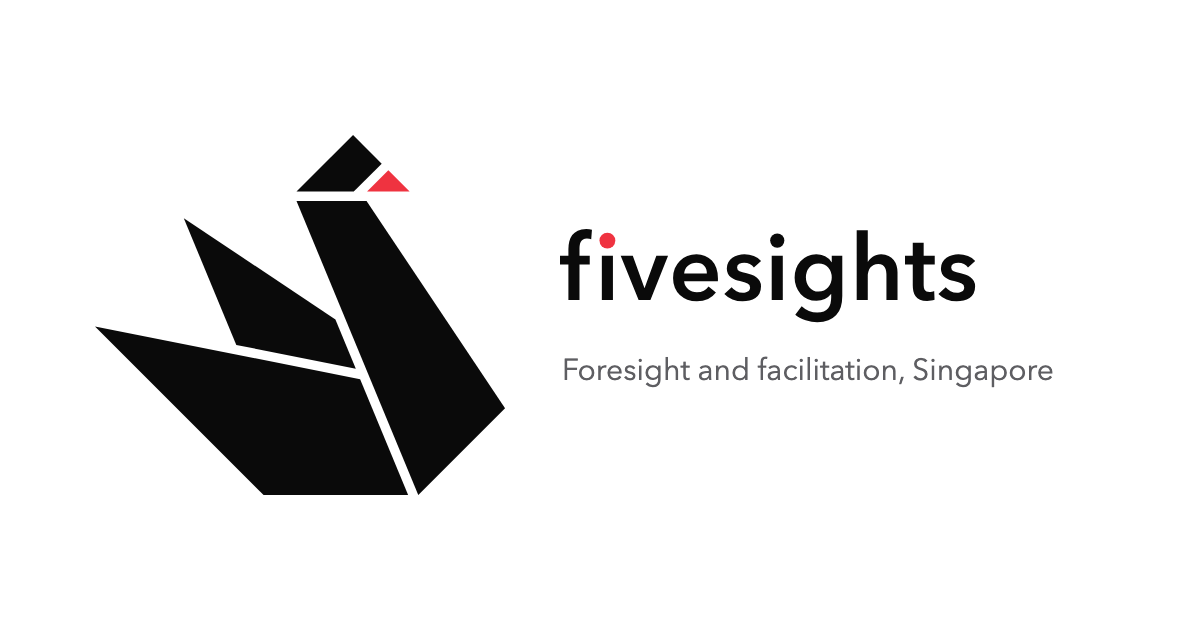
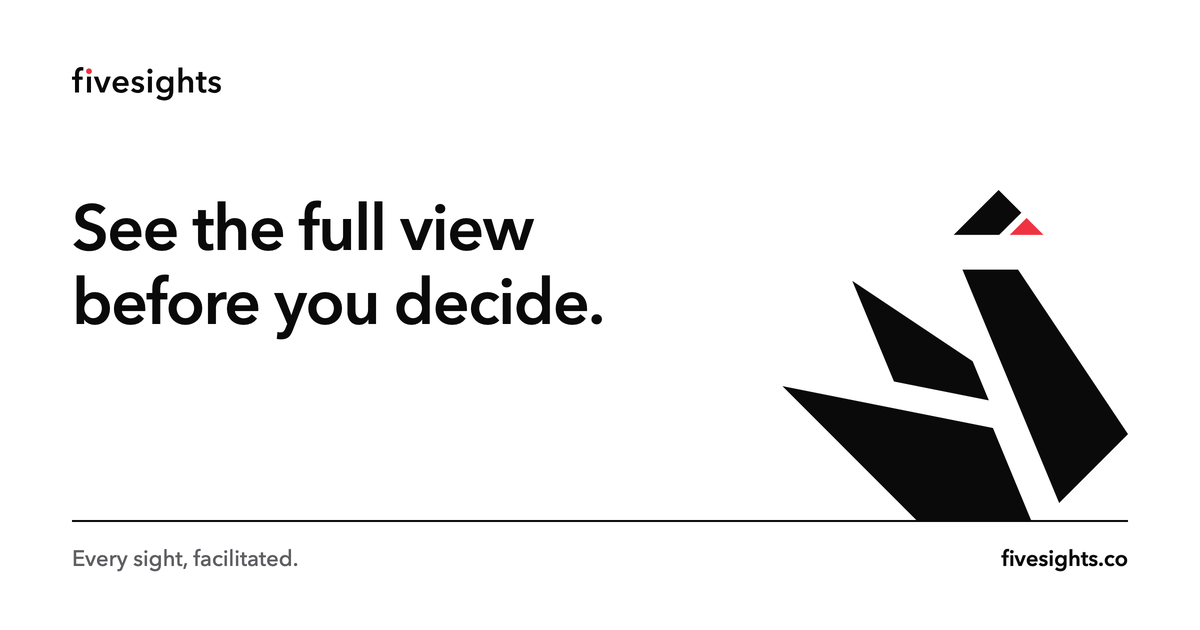
Retire 'Foresight and facilitation' for 'Every sight, facilitated.'
Page title, link-preview descriptions and the link-preview image.

diff --git a/index.html b/index.html
@@ -3,7 +3,7 @@
 <head>
 <meta charset="utf-8">
 <meta name="viewport" content="width=device-width, initial-scale=1">
-<title>fivesights | Foresight and facilitation, Singapore</title>
+<title>fivesights | Every sight, facilitated.</title>
 <meta name="description" content="fivesights is a Singapore foresight and facilitation practice that trains teams to see a decision from every side before they make it.">
 <link rel="icon" type="image/svg+xml" href="brand/favicon.svg">
 <link rel="canonical" href="https://fivesights.co/">
@@ -12,7 +12,7 @@
 <meta name="twitter:card" content="summary_large_image">
 <link rel="stylesheet" href="css/app.css">
 <meta property="og:title" content="fivesights">
-<meta property="og:description" content="Foresight and facilitation, Singapore.">
+<meta property="og:description" content="Every sight, facilitated.">
 <meta property="og:type" content="website">
 </head>
 <body>

diff --git a/approach.html b/approach.html
@@ -7,7 +7,7 @@
 <meta name="description" content="How fivesights works: five positions a team looks from before it decides, with Values at the centre, and the framework library that sits under each.">
 <link rel="icon" type="image/svg+xml" href="brand/favicon.svg">
 <meta property="og:title" content="Our approach | fivesights">
-<meta property="og:description" content="Foresight and facilitation, Singapore.">
+<meta property="og:description" content="Every sight, facilitated.">
 <meta property="og:type" content="website">
 <link rel="canonical" href="https://fivesights.co/approach.html">
 <meta property="og:url" content="https://fivesights.co/approach.html">

diff --git a/work.html b/work.html
@@ -12,7 +12,7 @@
 <meta name="twitter:card" content="summary_large_image">
 <link rel="stylesheet" href="css/app.css">
 <meta property="og:title" content="Selected work | fivesights">
-<meta property="og:description" content="Foresight and facilitation, Singapore.">
+<meta property="og:description" content="Every sight, facilitated.">
 <meta property="og:type" content="website">
 </head>
 <body>
